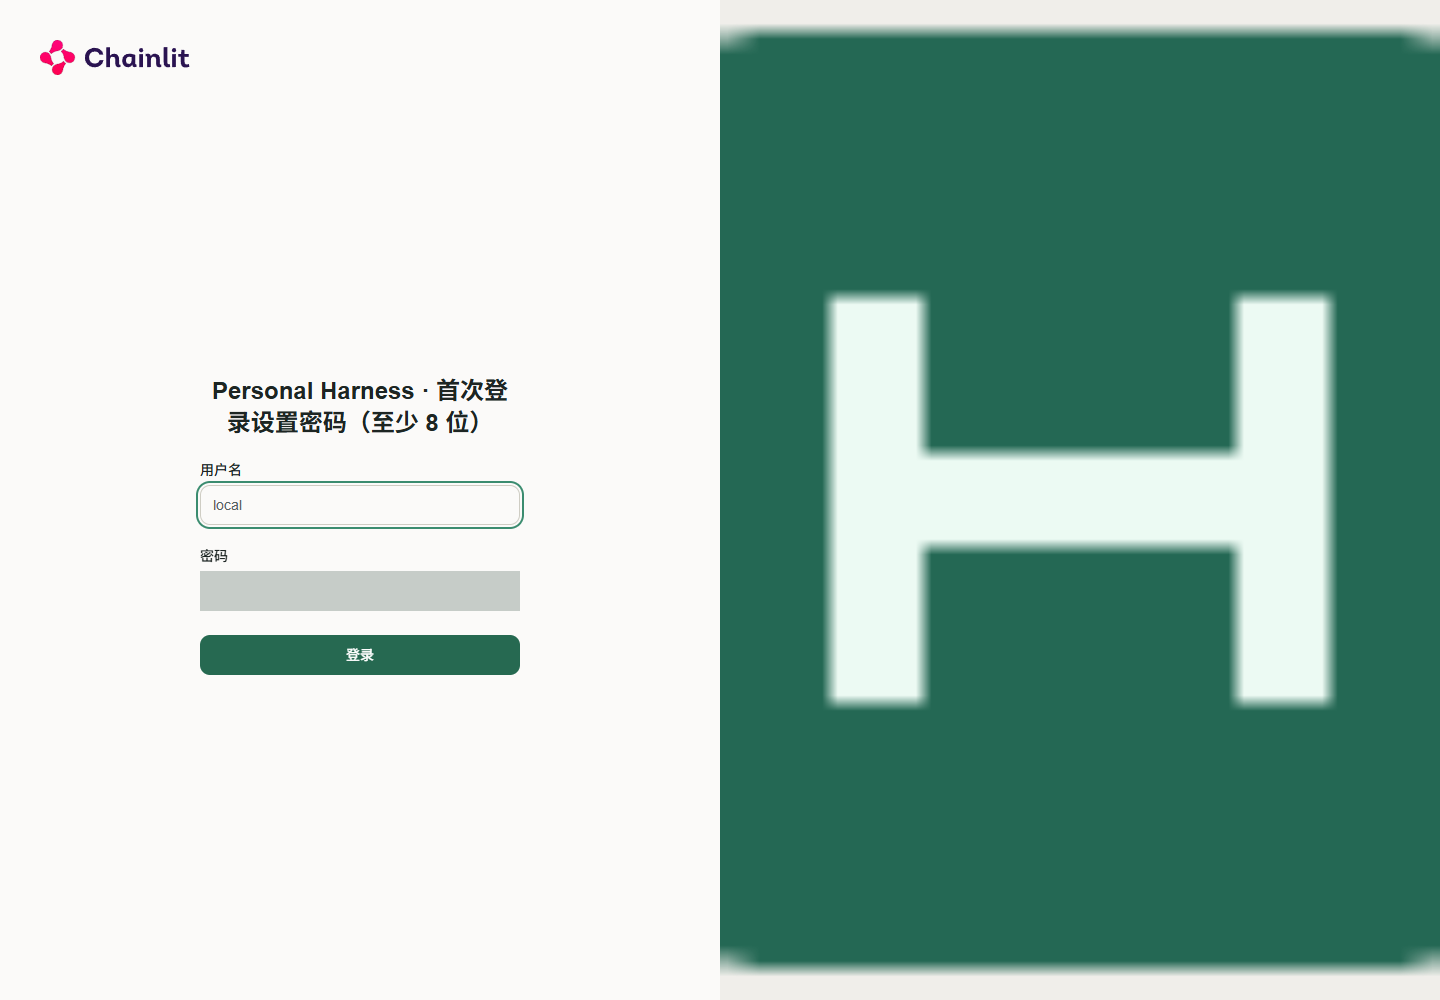
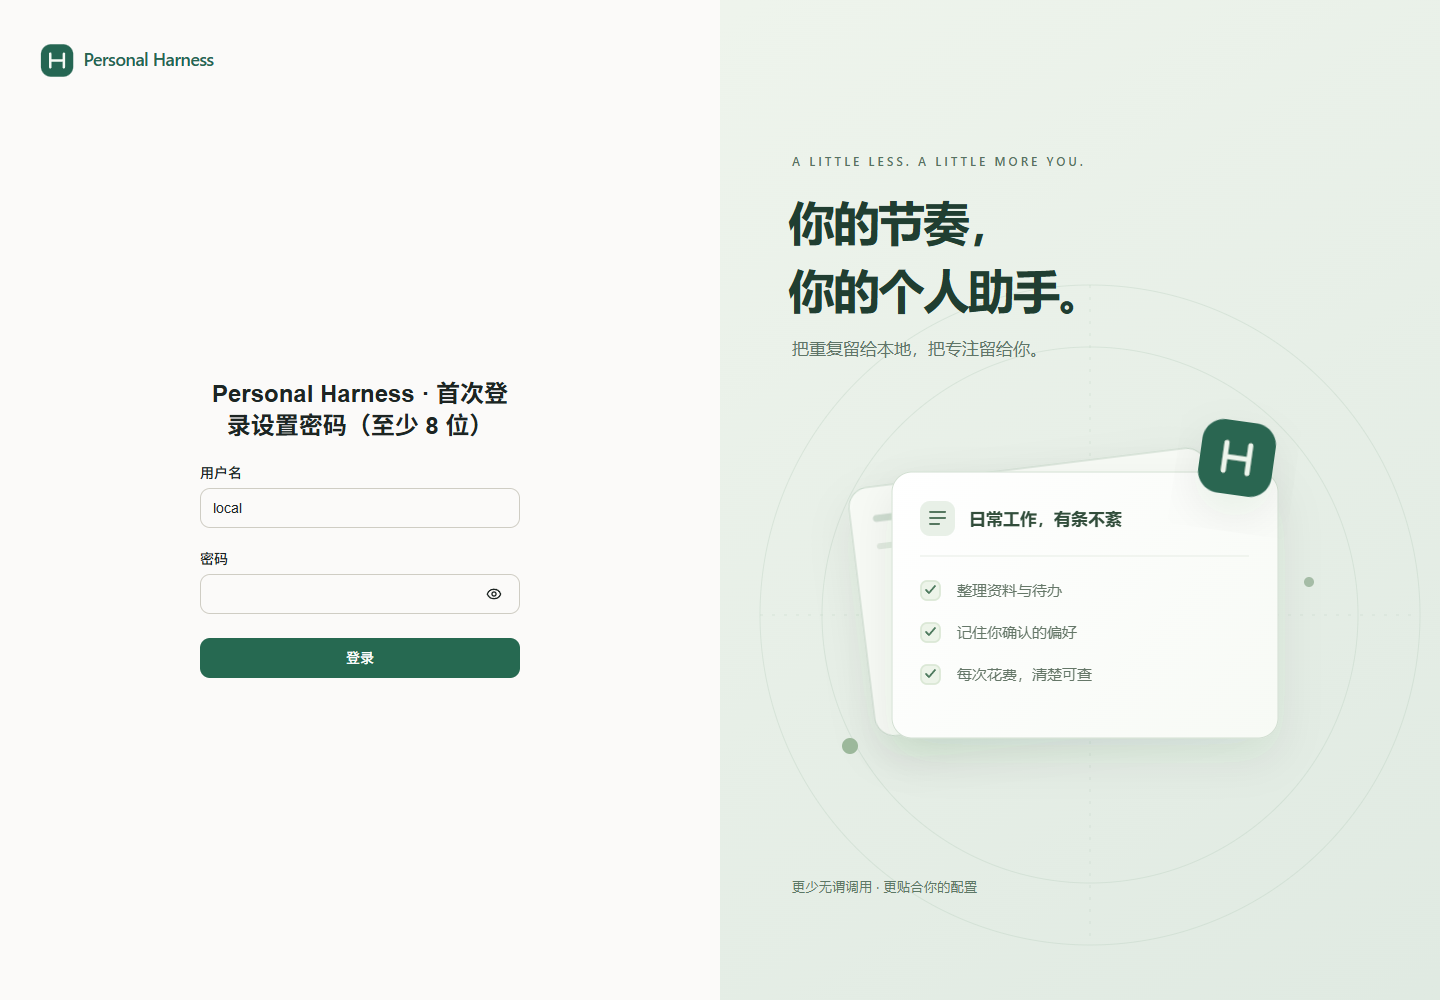
Redesign login branding and refresh documentation screenshot

diff --git a/docs/site/index.html b/docs/site/index.html
@@ -15,7 +15,7 @@ uv run personal-harness ui
 <p>如果本机存在失效的 Python 安装或注册项，可在 <code>uv sync</code> 后追加 <code>--python</code> 并指定一个有效的 Python 3.12+ 可执行文件；不要依赖旧项目的虚拟环境路径。</p>
 <p>打开 http://127.0.0.1:8000 。首次登录的用户名为 <code>local</code>，密码由你现场设置，至少 8 位。以后用相同密码登录。首次只绑定本机地址；共享到其他设备前，先在本机完成密码设置。</p>
 <p>Agent 首次打开默认使用明亮模式；你可以在界面菜单中切换主题，选择会保留在当前浏览器中。</p>
-<p><img src="screenshots/01-login.png" alt="首次登录，自行设置本地密码" /></p>
+<p><img src="screenshots/01-login.png" alt="新版登录页：清晰矢量插画与 Personal Harness 品牌，自行设置本地密码" /></p>
 <p><img src="screenshots/02-welcome.png" alt="明亮模式下的新聊天入口" /></p>
 <p>配置文件 <code>personal-harness.toml</code>、聊天数据库和上传文件都留在运行目录，不属于应提交的源码。</p>
 <h2 id="getting-started-section-2">连接你自己的模型</h2>

diff --git a/src/personal_harness/ui/harness.css b/src/personal_harness/ui/harness.css
@@ -51,6 +51,8 @@ body {
   font-family: "Segoe UI", "PingFang SC", "Microsoft YaHei UI", system-ui, sans-serif;
 }
 
+body:has(input#password) img.logo { width: 230px; height: auto; }
+
 [data-sidebar="sidebar"] { border-inline-end: 1px solid hsl(var(--border)); }
 [data-sidebar="header"] { border-bottom: 1px solid hsl(var(--border)); margin: 0 10px; padding-inline: 0; }
 [data-sidebar="header"]::before {

diff --git a/scripts/browser_smoke.py b/scripts/browser_smoke.py
@@ -99,6 +99,17 @@ with (root / "server.log").open("w", encoding="utf-8") as log:
                 ),
             )
             page.goto(url, wait_until="domcontentloaded")
+            illustration = page.locator('img[src="/public/login-panel.svg"]')
+            expect(illustration).to_be_visible()
+            illustration.evaluate("img => img.decode()")
+            assert (
+                page.request.get(url + "/logo?theme=light").body()
+                == files("personal_harness").joinpath("ui/brand.svg").read_bytes()
+            )
+            page.set_viewport_size({"width": 390, "height": 844})
+            expect(illustration).not_to_be_visible()
+            assert page.evaluate("document.documentElement.scrollWidth <= innerWidth")
+            page.set_viewport_size({"width": 1440, "height": 1000})
             page.locator("input").first.fill("local")
             page.locator("input[type=password]").fill("local-ui-test-only")
             page.locator("button[type=submit]").click()

diff --git a/src/personal_harness/ui_bootstrap.py b/src/personal_harness/ui_bootstrap.py
@@ -169,6 +169,10 @@ def prepare_ui(directory: Path, host: str) -> dict[str, str]:
         ("ReportRecipes.jsx", "public/elements/ReportRecipes.jsx"),
         ("RunReceipt.jsx", "public/elements/RunReceipt.jsx"),
         ("mark.png", "public/favicon.png"),
+        ("brand.svg", "public/brand.svg"),
+        ("brand.svg", "public/logo_light.svg"),
+        ("brand.svg", "public/logo_dark.svg"),
+        ("login-panel.svg", "public/login-panel.svg"),
         ("vendor/chart.umd.min.js", "public/vendor/chart.umd.min.js"),
         ("vendor/Chart.js.LICENSE.md", "public/vendor/Chart.js.LICENSE.md"),
         ("vendor/kurkle-color.LICENSE.md", "public/vendor/kurkle-color.LICENSE.md"),

diff --git a/docs/getting-started.md b/docs/getting-started.md
@@ -18,7 +18,7 @@ uv run personal-harness ui
 
 Agent 首次打开默认使用明亮模式；你可以在界面菜单中切换主题，选择会保留在当前浏览器中。
 
-![首次登录，自行设置本地密码](site/screenshots/01-login.png)
+![新版登录页：清晰矢量插画与 Personal Harness 品牌，自行设置本地密码](site/screenshots/01-login.png)
 
 ![明亮模式下的新聊天入口](site/screenshots/02-welcome.png)
 

diff --git a/CHANGELOG.md b/CHANGELOG.md
@@ -1,5 +1,10 @@
 # Changelog
 
+## 未发布
+
+- 登录页使用独立 SVG 插画与品牌标识，替换被放大的 favicon；手机端保持简洁表单。
+- 更新在线文档的真实登录截图，浏览器冒烟检查覆盖插画加载与手机布局。
+
 ## 0.1.0 — 2026-11-24
 
 首个公开开源版本，面向个人本地运行。
